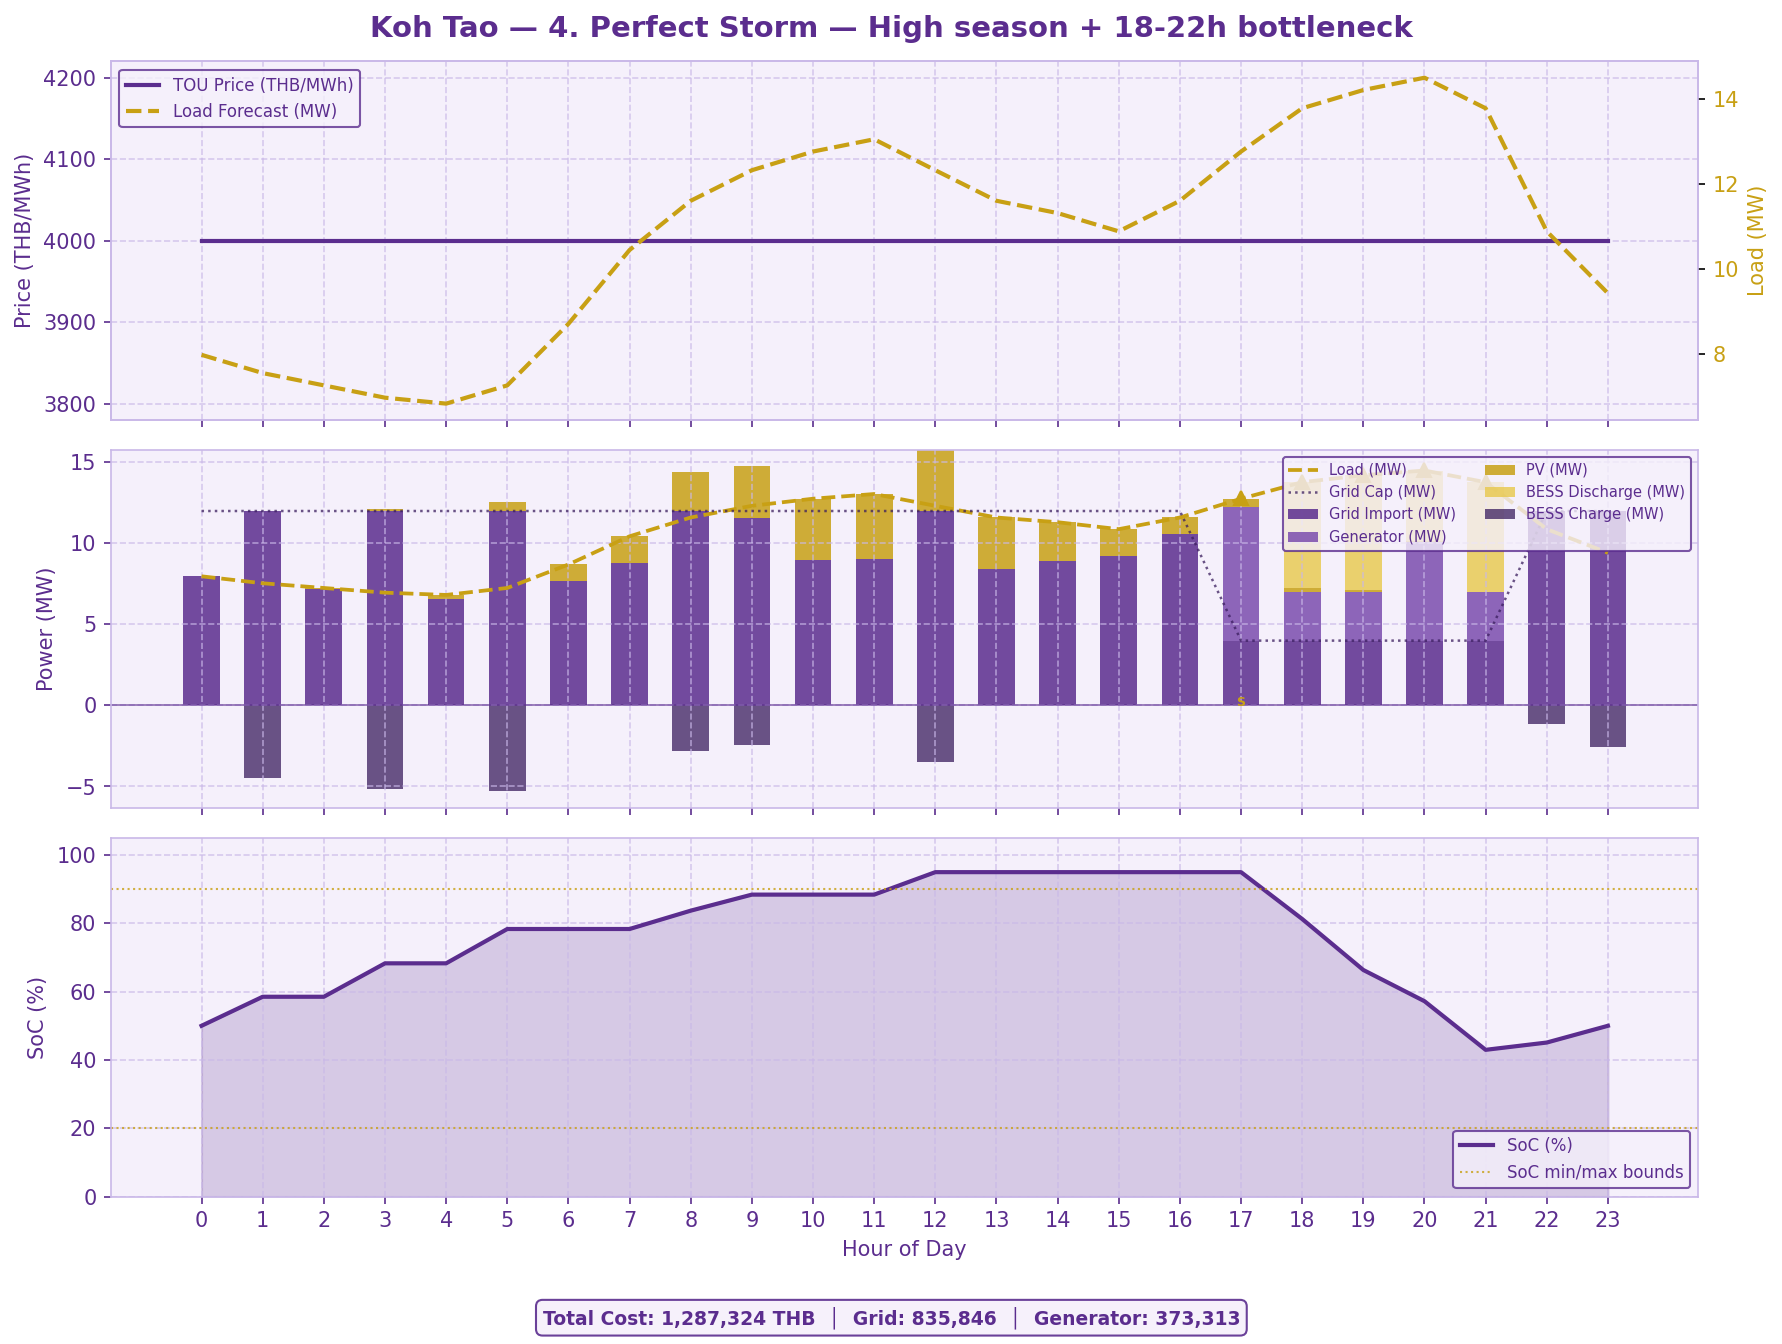
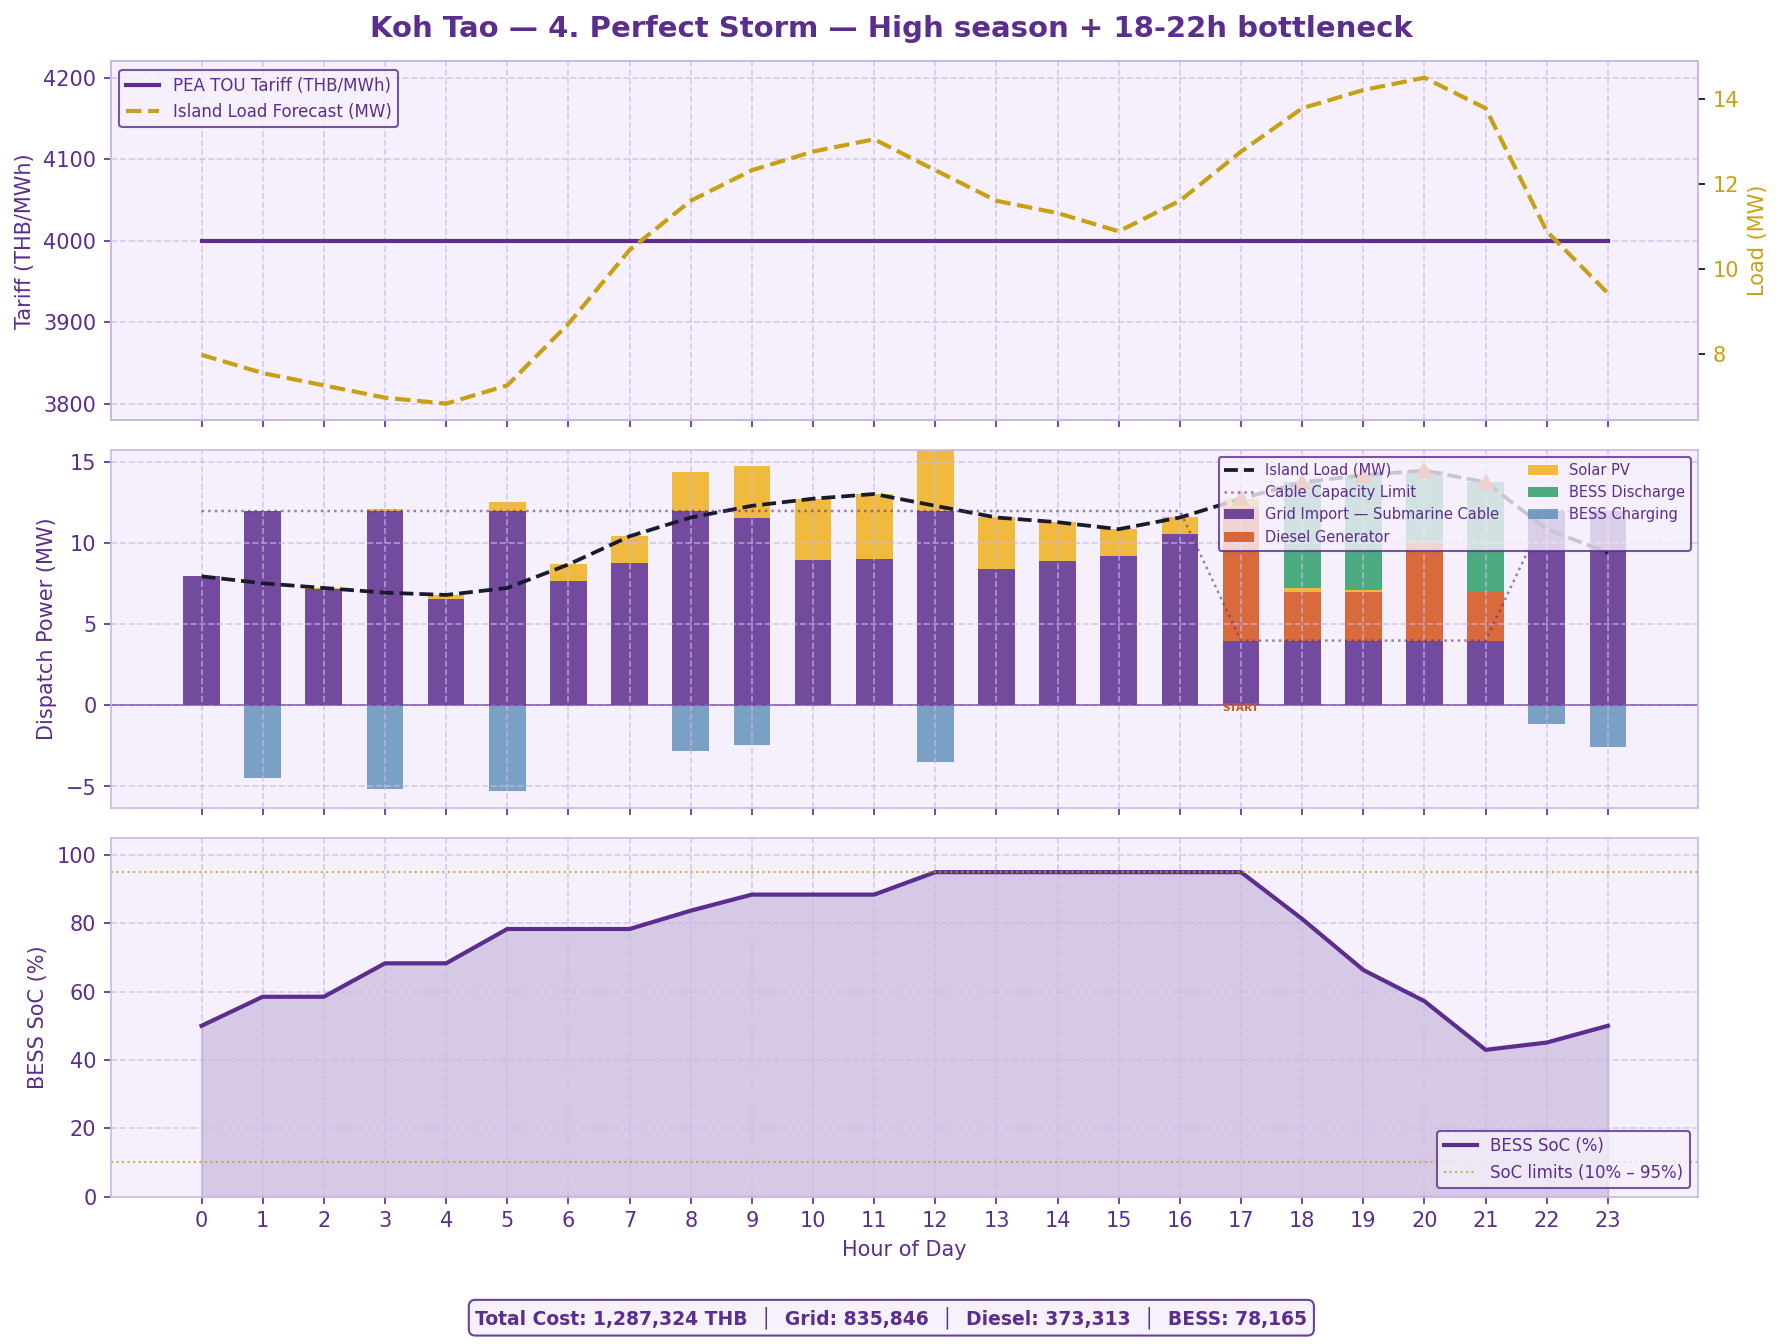
Revise chart's theme and legend.

diff --git a/app/optimizer.py b/app/optimizer.py
@@ -246,16 +246,20 @@ def solve_microgrid(
 
 
 # PEA Thailand brand colours
-_PEA_PURPLE = "#5B2D8E"
-_PEA_GOLD   = "#C8A014"
-_PEA_WHITE  = "#FFFFFF"
-_PEA_BG     = "#F5F0FB"  # very light purple tint for panel background
+_PEA_PURPLE    = "#5B2D8E"
+_PEA_GOLD      = "#C8A014"
+_PEA_WHITE     = "#FFFFFF"
+_PEA_BG        = "#F5F0FB"  # very light purple tint for panel background
+_PEA_GRID_LINE = "#C9B8E8"  # soft purple — axis grid lines
 
-# Derived palette — all elements stay within the PEA identity
-_PEA_PURPLE_MID  = "#7B4DAE"   # medium purple  — generator bars
-_PEA_PURPLE_DARK = "#3A1D5E"   # dark purple    — BESS charge (demand)
-_PEA_GOLD_LIGHT  = "#E8C84A"   # lighter gold   — BESS discharge
-_PEA_GRID_LINE   = "#C9B8E8"   # soft purple    — grid lines
+# Dispatch source palette — each source is visually distinct in stacked bars
+_COLOR_GRID     = "#5B2D8E"   # PEA purple    — mainland grid / submarine cable
+_COLOR_DIESEL   = "#D4531A"   # burnt orange  — diesel generator
+_COLOR_PV       = "#F0B429"   # amber         — solar PV
+_COLOR_BESS_DIS = "#2E9E6B"   # teal green    — BESS discharge (supply)
+_COLOR_BESS_CH  = "#5B8DB8"   # steel blue    — BESS charging (demand)
+_COLOR_SHED     = "#C0392B"   # crimson       — unserved load / load shedding
+_COLOR_LOAD     = "#1A1A2E"   # near-black    — island load line
 
 
 def plot_dispatch(
@@ -265,6 +269,7 @@ def plot_dispatch(
     tou_prices: dict[int, float],
     title: str = "Microgrid Optimal Dispatch",
     grid_limit: dict[int, float] | None = None,
+    params: MicrogridParams | None = None,
 ) -> plt.Figure:
     """Plot the optimized dispatch schedule across 3 panels (PEA brand theme).
 
@@ -311,18 +316,18 @@ def plot_dispatch(
         ax.grid(True, linestyle="--", color=_PEA_GRID_LINE, alpha=0.7)
 
     # ------------------------------------------------------------------
-    # Panel 1: TOU price (purple line) + Load forecast (gold dashed, right axis)
+    # Panel 1: TOU tariff (purple line) + Island load forecast (gold dashed, right axis)
     # ------------------------------------------------------------------
     ax1 = axes[0]
     ax1.plot(hours, price, color=_PEA_PURPLE, linewidth=2,
-             label="TOU Price (THB/MWh)")
-    ax1.set_ylabel("Price (THB/MWh)")
+             label="PEA TOU Tariff (THB/MWh)")
+    ax1.set_ylabel("Tariff (THB/MWh)")
     _grid(ax1)
 
     ax1r = ax1.twinx()
     ax1r.set_facecolor(_PEA_BG)
     ax1r.plot(hours, load_mw, color=_PEA_GOLD, linewidth=2,
-              linestyle="--", label="Load Forecast (MW)")
+              linestyle="--", label="Island Load Forecast (MW)")
     ax1r.set_ylabel("Load (MW)", color=_PEA_GOLD)
     ax1r.tick_params(axis="y", labelcolor=_PEA_GOLD)
     for spine in ax1r.spines.values():
@@ -335,72 +340,76 @@ def plot_dispatch(
                facecolor=_PEA_BG, edgecolor=_PEA_PURPLE, labelcolor=_PEA_PURPLE)
 
     # ------------------------------------------------------------------
-    # Panel 2: Stacked supply bars (above 0) + BESS charge bar (below 0)
+    # Panel 2: Stacked supply bars (above 0) + BESS charging bar (below 0)
     # ------------------------------------------------------------------
     ax2 = axes[1]
 
     ax2.bar(hours, p_grid, bar_w,
-            label="Grid Import (MW)", color=_PEA_PURPLE, alpha=0.85)
+            label="Grid Import — Submarine Cable", color=_COLOR_GRID, alpha=0.85)
     ax2.bar(hours, p_gen, bar_w,
-            label="Generator (MW)", color=_PEA_PURPLE_MID, alpha=0.85,
+            label="Diesel Generator", color=_COLOR_DIESEL, alpha=0.85,
             bottom=p_grid)
     bottom_pv = [g + n for g, n in zip(p_grid, p_gen)]
     ax2.bar(hours, pv_mw, bar_w,
-            label="PV (MW)", color=_PEA_GOLD, alpha=0.85,
+            label="Solar PV", color=_COLOR_PV, alpha=0.90,
             bottom=bottom_pv)
     bottom_dis = [b + pv for b, pv in zip(bottom_pv, pv_mw)]
     ax2.bar(hours, p_dis, bar_w,
-            label="BESS Discharge (MW)", color=_PEA_GOLD_LIGHT, alpha=0.80,
+            label="BESS Discharge", color=_COLOR_BESS_DIS, alpha=0.85,
             bottom=bottom_dis)
 
     ax2.bar(hours, [-v for v in p_ch], bar_w,
-            label="BESS Charge (MW)", color=_PEA_PURPLE_DARK, alpha=0.75)
+            label="BESS Charging", color=_COLOR_BESS_CH, alpha=0.80)
 
-    # Load shedding (unserved energy) — only render if any hour > 0
+    # Load shedding — only render if any hour > 0
     if any(v > 1e-6 for v in p_shed):
         bottom_shed = [b + pv + d for b, pv, d in zip(bottom_pv, pv_mw, p_dis)]
         ax2.bar(hours, p_shed, bar_w,
-                label="Unserved (MW)", color="#C0392B", alpha=0.85,
+                label="Load Shedding (Unserved)", color=_COLOR_SHED, alpha=0.85,
                 bottom=bottom_shed, hatch="///", edgecolor="white")
 
-    ax2.plot(hours, load_mw, color=_PEA_GOLD, linewidth=1.8,
-             linestyle="--", label="Load (MW)")
+    ax2.plot(hours, load_mw, color=_COLOR_LOAD, linewidth=1.8,
+             linestyle="--", label="Island Load (MW)")
 
     if grid_limit is not None:
         cap = [grid_limit[h + 1] for h in hours]
-        ax2.plot(hours, cap, color=_PEA_PURPLE_DARK, linewidth=1.2,
-                 linestyle=":", alpha=0.75, label="Grid Cap (MW)")
+        ax2.plot(hours, cap, color=_COLOR_GRID, linewidth=1.2,
+                 linestyle=":", alpha=0.60, label="Cable Capacity Limit")
 
     ax2.axhline(0, color=_PEA_PURPLE, linewidth=0.9, alpha=0.6)
-    ax2.set_ylabel("Power (MW)")
+    ax2.set_ylabel("Dispatch Power (MW)")
     ax2.legend(loc="upper right", fontsize=7, ncol=2,
                facecolor=_PEA_BG, edgecolor=_PEA_PURPLE, labelcolor=_PEA_PURPLE)
     _grid(ax2)
 
-    # Generator ON marker (gold triangle) + startup label
+    # Diesel online marker (orange triangle above bar) + cold-start label
     for h in hours:
         if rows[h]["gen_online"]:
             y_top = p_grid[h] + p_gen[h] + pv_mw[h] + p_dis[h]
-            ax2.plot(h, y_top + 0.02, marker="^", color=_PEA_GOLD,
+            ax2.plot(h, y_top + 0.02, marker="^", color=_COLOR_DIESEL,
                      markersize=7, zorder=5)
         if rows[h]["gen_started"]:
-            ax2.annotate("S", xy=(h, 0), xytext=(h, -0.05),
-                         fontsize=6, color=_PEA_GOLD, ha="center",
+            ax2.annotate("START", xy=(h, 0), xytext=(h, -0.35),
+                         fontsize=5, color=_COLOR_DIESEL, ha="center",
                          fontweight="bold")
 
     # ------------------------------------------------------------------
-    # Panel 3: State of Charge
+    # Panel 3: BESS State of Charge
     # ------------------------------------------------------------------
     ax3 = axes[2]
     ax3.fill_between(hours, soc_pct, alpha=0.20, color=_PEA_PURPLE)
-    ax3.plot(hours, soc_pct, color=_PEA_PURPLE, linewidth=2, label="SoC (%)")
+    ax3.plot(hours, soc_pct, color=_PEA_PURPLE, linewidth=2,
+             label="BESS SoC (%)")
 
-    # Shade SoC safety band (soc_min–soc_max converted to %)
-    ax3.axhline(20, color=_PEA_GOLD, linewidth=1, linestyle=":",
-                alpha=0.8, label="SoC min/max bounds")
-    ax3.axhline(90, color=_PEA_GOLD, linewidth=1, linestyle=":", alpha=0.8)
+    # Safety operating band — derived from params.soc_min / soc_max
+    _p = params or MicrogridParams()
+    soc_lo = _p.soc_min * 100
+    soc_hi = _p.soc_max * 100
+    ax3.axhline(soc_lo, color=_PEA_GOLD, linewidth=1, linestyle=":",
+                alpha=0.8, label=f"SoC limits ({soc_lo:.0f}% – {soc_hi:.0f}%)")
+    ax3.axhline(soc_hi, color=_PEA_GOLD, linewidth=1, linestyle=":", alpha=0.8)
 
-    ax3.set_ylabel("SoC (%)")
+    ax3.set_ylabel("BESS SoC (%)")
     ax3.set_ylim(0, 105)
     ax3.legend(loc="lower right", fontsize=8,
                facecolor=_PEA_BG, edgecolor=_PEA_PURPLE, labelcolor=_PEA_PURPLE)
@@ -437,9 +446,10 @@ def plot_dispatch(
     # ------------------------------------------------------------------
     total_grid_cost = sum(rows[h]["grid_cost"] for h in hours)
     total_gen_cost  = sum(rows[h]["gen_cost"]  for h in hours)
+    total_bess_cost = sum(rows[h]["bess_cost"] for h in hours)
     cost_text = (
         f"Total Cost: {result.total_cost:,.0f} THB  │  "
-        f"Grid: {total_grid_cost:,.0f}  │  Generator: {total_gen_cost:,.0f}"
+        f"Grid: {total_grid_cost:,.0f}  │  Diesel: {total_gen_cost:,.0f}  │  BESS: {total_bess_cost:,.0f}"
     )
     fig.text(0.5, 0.01, cost_text, ha="center", fontsize=9,
              color=_PEA_PURPLE, fontweight="bold",
@@ -591,7 +601,8 @@ if __name__ == "__main__":
         # ----- chart -----
         fig = plot_dispatch(result, load, pv, tou,
                             title=f"Koh Tao — {name}",
-                            grid_limit=grid_limit)
+                            grid_limit=grid_limit,
+                            params=params)
         fig.savefig(out_png, dpi=150, bbox_inches="tight")
         plt.close(fig)
         print(f"  Chart saved → {out_png}")
